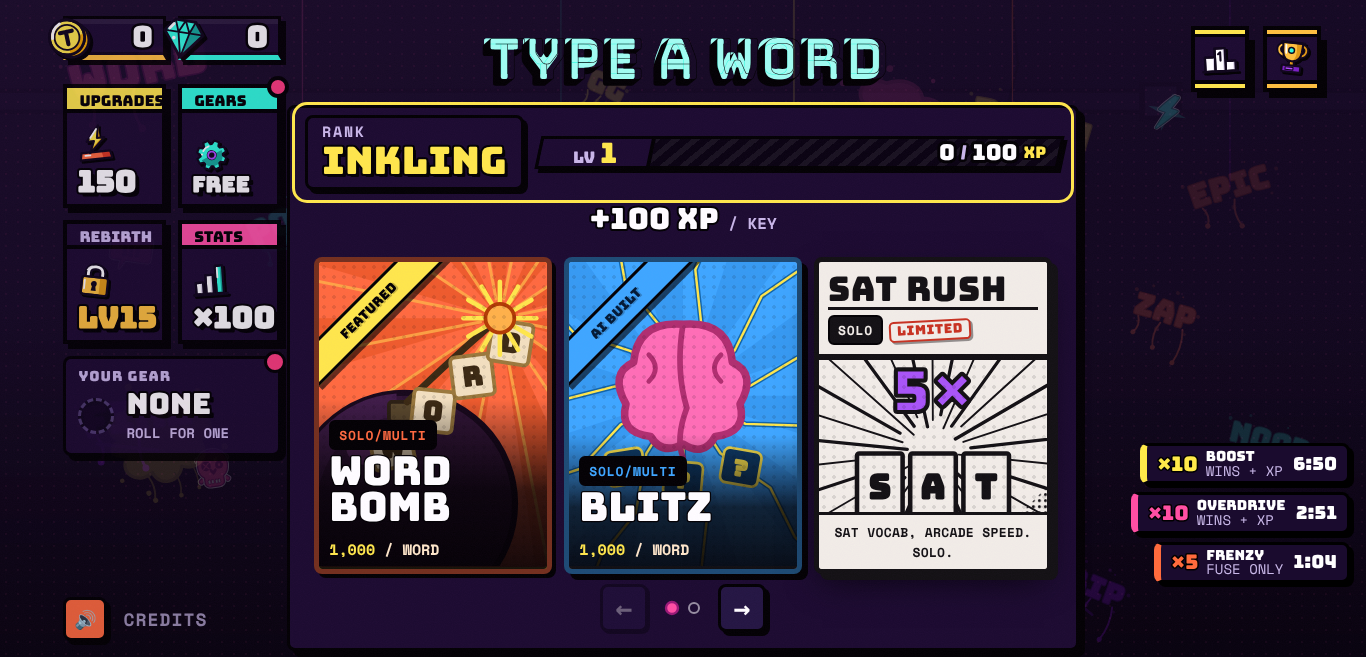
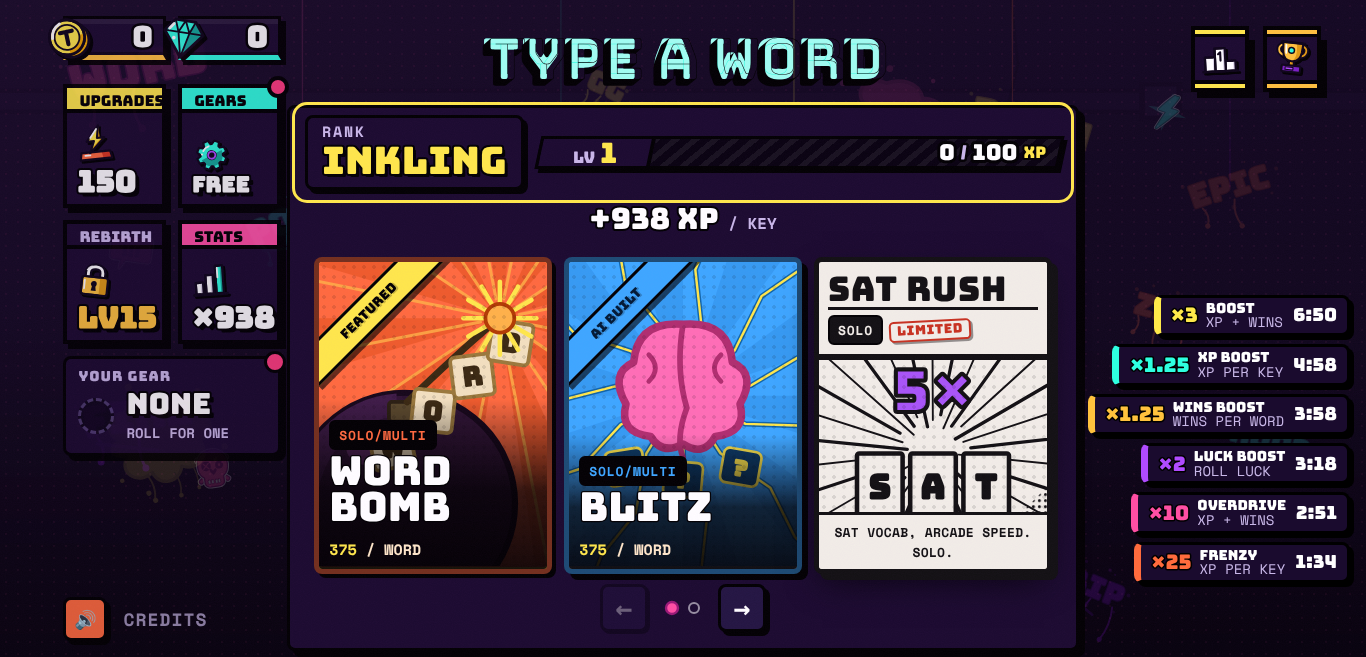
fix(hud): dock follows #302's boost model — WINS BOOST row, FRENZY as x25 XP
#302 landed while this branch was open and changed what a boost IS:
  * a new WINS BOOST stock item (fx 'wins', x1.25 on wins per word) that the
    dock knew nothing about, so buying one showed no timer anywhere;
  * FRENZY in season 2 is x25 on XP PER KEY everywhere, not x5 on FUSE wins
    (frenzy.js frenzyXpMult / __v3), so the row was quoting x5 FUSE ONLY —
    a multiplier the game does not pay.

The frenzy row now reads whichever is live (frenzyXpMult, else frenzyMult)
so it can never name a multiplier that is not being paid, and "says" may be
a function of "now" for exactly that case. Every row's wording now matches
that item's WHAT line in the shop, so the card you bought and the row
counting it down say the same thing.

Claude-Session: https://claude.ai/code/session_01QeQpoZt4tzDGPzNZFibUNt

diff --git a/src/progress/liveTimers.js b/src/progress/liveTimers.js
@@ -6,9 +6,11 @@
 //
 // PURE + guarded: every source already guards its own storage, and the v3 STOCK effects are read through the V3
 // holder (season.js) so this module never pulls the v3 chunk into the eager bundle (payload ratchet).
+// The `says` wording matches each item's WHAT line in the shop (v3/stock.js), so the card you bought and the
+// row counting it down say the same thing.
 import { boostRemaining, codeBoostMult } from './boost.js';
 import { overdriveRemaining, OVERDRIVE_MULT } from './overdrive.js';
-import { frenzyRemaining, FRENZY_MULT } from './frenzy.js';
+import { frenzyRemaining, frenzyMult, frenzyXpMult } from './frenzy.js';
 import { V3 } from './season.js';
 
 // tone = the house colour the row wears; `says` answers "boost WHAT?" in one phrase.
@@ -16,7 +18,7 @@ const ROWS = [
   {
     id: 'overdrive',
     name: 'OVERDRIVE',
-    says: 'WINS + XP',
+    says: 'XP + WINS',
     tone: '#FF4FA3',
     mult: () => OVERDRIVE_MULT,
     left: (now) => overdriveRemaining(now),
@@ -24,31 +26,42 @@ const ROWS = [
   {
     id: 'boost',
     name: 'BOOST',
-    says: 'WINS + XP',
+    says: 'XP + WINS',
     tone: '#FFE94A',
     mult: (now) => codeBoostMult(now),
     left: (now) => boostRemaining(now),
   },
   {
+    // FRENZY is two different things by season: season 2 pays ×25 on XP PER KEY everywhere (frenzyXpMult),
+    // season 1 pays ×5 on FUSE WINS (frenzyMult). Read whichever is live so the row never quotes a
+    // multiplier the game will not pay.
     id: 'frenzy',
     name: 'FRENZY',
-    says: 'FUSE ONLY',
+    says: (now) => (frenzyXpMult(now) > 1 ? 'XP PER KEY' : 'FUSE WINS'),
     tone: '#FF6B3D',
-    mult: () => FRENZY_MULT,
+    mult: (now) => Math.max(frenzyXpMult(now), frenzyMult('fuse', now)),
     left: (now) => frenzyRemaining(now),
   },
   {
     id: 'xp',
-    name: '+25% XP',
-    says: 'XP ONLY',
+    name: 'XP BOOST',
+    says: 'XP PER KEY',
     tone: '#2EFFE0',
     mult: () => 1.25,
     left: (now) => (V3.stock ? V3.stock.stockFxLeft('xp', now) : 0),
   },
   {
+    id: 'wins',
+    name: 'WINS BOOST',
+    says: 'WINS PER WORD',
+    tone: '#FFC23D',
+    mult: () => 1.25,
+    left: (now) => (V3.stock ? V3.stock.stockFxLeft('wins', now) : 0),
+  },
+  {
     id: 'luck',
-    name: 'LUCK',
-    says: 'ROLL ODDS',
+    name: 'LUCK BOOST',
+    says: 'ROLL LUCK',
     tone: '#B04BFF',
     mult: () => 2,
     left: (now) => (V3.stock ? V3.stock.stockFxLeft('luck', now) : 0),
@@ -76,7 +89,13 @@ export function liveTimers(now = Date.now()) {
       mult = 1;
     }
     if (!(mult > 1)) continue;
-    out.push({ id: r.id, name: r.name, says: r.says, tone: r.tone, mult, ms });
+    let says = '';
+    try {
+      says = typeof r.says === 'function' ? r.says(now) : r.says;
+    } catch {
+      says = '';
+    }
+    out.push({ id: r.id, name: r.name, says, tone: r.tone, mult, ms });
   }
   return out.sort((a, b) => b.ms - a.ms);
 }
